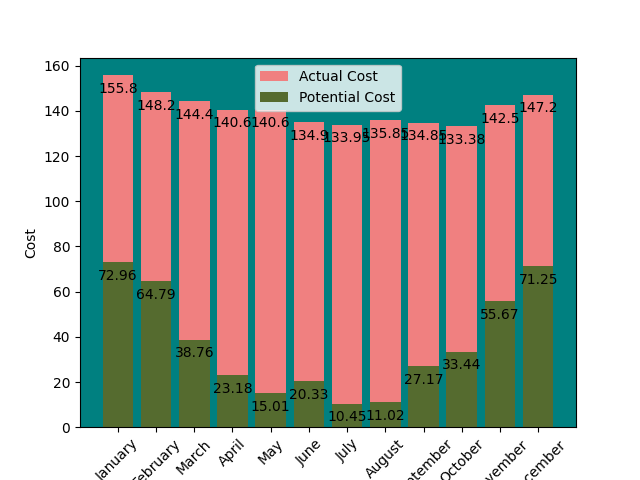
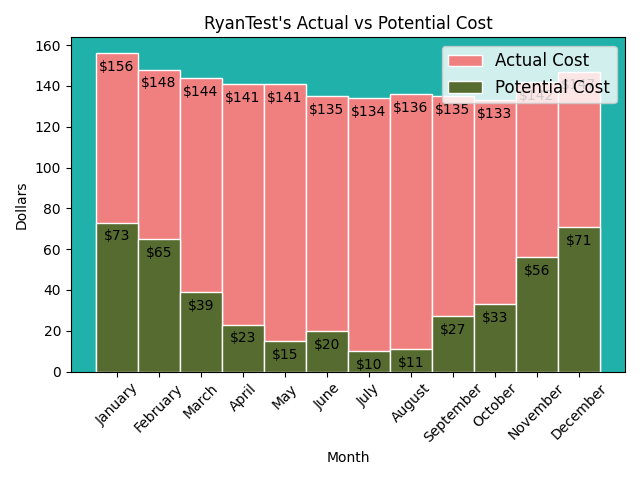
Various Results updates

diff --git a/src/backend/results.py b/src/backend/results.py
@@ -1,26 +1,32 @@
 from backend.utils import MONTHS_MAP, IntListMonthly, FloatListMonthly
 from backend.solar_potential import SolarPotentialData
 from backend.input_handler import InputData
+from csv import writer as csv_writer
 from os import PathLike, getcwd
 from pathlib import PurePath
 from math import ceil
 import matplotlib.pyplot as plt
 from pandas import DataFrame
 from pydantic import BaseModel, PositiveInt, FilePath
-from typing import Callable, Iterable, List
+from typing import Callable, Iterable, List, Literal, TypeVar
+
+PandasDataFrame = TypeVar('pandas.core.frame.DataFrame')
 
 
 class Results(BaseModel):
     # Required
     name: str
     address: str
+    actual_consumption_monthly: IntListMonthly
+    actual_cost_monthly: FloatListMonthly
+    potential_production_monthly: IntListMonthly
     potential_cost_monthly: FloatListMonthly
-    potential_cost_annual: float
     savings_monthly: FloatListMonthly
-    savings_annual: float
     cost_reduction_monthly: IntListMonthly
-    cost_reduction_annual: int
-    graph_path: FilePath
+    energy_graph_path: FilePath
+    cost_graph_path: FilePath
+    results_data_frame: PandasDataFrame
+    results_csv_path: FilePath
     mod_quantity: PositiveInt
     input_data: InputData
     solar_potential_data: SolarPotentialData
@@ -32,128 +38,54 @@ def _average(iterable: Iterable) -> int:
 
 
 def create_comparison_graph(
-        title: str, d1: DataFrame, d2: DataFrame, l1: str, l2: str, y_label: str, out_path: PathLike) -> None:
-    """"""
+        title: str, d1: DataFrame, d2: DataFrame, l1: str, l2: str, y_label: str,
+        out_path: PathLike, graph_type: Literal['energy', 'cost']) -> None:
+    """Creates a graph with 2 overlying plots for comparison."""
+
+    def _plot_bar(d: DataFrame, l: str, color: str) -> None:
+        """Helper function to plot each bar-plot and set the label"""
+        _ax = ax.bar(
+            x=list(MONTHS_MAP.values()),
+            height=d.drop(d.index[-1]),
+            width=1,
+            color=color,
+            label=l,
+            edgecolor='white',
+            capstyle='round'
+        )
+        # Display the numbers on the bar-plots
+        ax.bar_label(
+            container=_ax,
+            padding=-15,
+            fmt='$%g' if graph_type == 'cost' else '%g'
+        )
+
+    # Define color_map for storing colors based on graph type
+    color_map = {  # key: [d1-color, d2-color]
+        'energy': ['indianred', 'gold'],
+        'cost': ['lightcoral', 'darkolivegreen']
+    }
     # Establish subplot figure.axes
     fig, ax = plt.subplots()
-    ax.set_title(title=title, font_size='x-large')
+    ax.set_title(label=title)
     # Plot both datasets you are comparing as bar-plots
-    ax1 = ax.bar(
-        x=list(MONTHS_MAP.values()),
-        height=d1,
-        width=1,
-        color='lightcoral',
-        label=l1,
-        edgecolor='black',
-        capstyle='round'
-    )
-    ax2 = ax.bar(
-        x=list(MONTHS_MAP.values()),
-        height=d2,
-        width=1,
-        color='darkolivegreen',
-        label=l2,
-        edgecolor='black',
-        capstyle='round'
-    )
-    # Display the numbers on the bar-plots
-    ax.bar_label(
-        container=ax1,
-        padding=-15
-    )
-    ax.bar_label(
-        container=ax2,
-        padding=-15
-    )
+    _plot_bar(d=d1, l=l1, color=color_map[graph_type][0])
+    _plot_bar(d=d2, l=l2, color=color_map[graph_type][1])
     # Set x and y labels
     ax.set_xlabel(xlabel='Month')
-    [item.set_rotation(45) for item in ax.get_xticklabels()]
     ax.set_ylabel(ylabel=y_label)
+    # Rotate month (x) labels by 45 degrees
+    [item.set_rotation(45) for item in ax.get_xticklabels()]
     # Set background color
-    ax.set_facecolor('teal')
+    ax.set_facecolor('lightseagreen')
     # Set legend
     legend = ax.legend(fontsize="large")
     # legend.get_frame().set_color("xkcd:salmon")
+
     # Tighten layout
     plt.tight_layout()
     # Save the figure
     plt.savefig(fname=out_path)
-
-
-def create_solar_graph(input_data: InputData, solar_potential_data: SolarPotentialData,
-                       out_relative_path: PathLike[str]) -> None:
-    """Generate the Results graph."""
-    potential = solar_potential_data.solar_potential_monthly
-    consumption = input_data.consumption_monthly
-    abv_months = list(map((lambda month: month[:3]), MONTHS_MAP.values()))
-
-    fig, ax = plt.subplots()
-    ax.set_title(f"{input_data.name}'s Consumption vs Production", fontsize="x-large")
-    consumption_bar_plot = ax.bar(
-        x=abv_months,
-        height=consumption,
-        width=1,
-        color="orange",
-        label="Consumption",
-        edgecolor="black",
-        capstyle='round'
-    )
-    ax.plot(
-        abv_months, potential, "bo",
-        label="Solar Potential",
-        linestyle="--",
-        linewidth=2,
-        markersize=8
-    )
-    ax.bar_label(
-        container=consumption_bar_plot,
-        padding=-15
-    )
-    ax.set_ylabel(solar_potential_data.units_solar_potential)
-    ax.set_xlabel('Month')
-    ax.set_facecolor('C0')
-
-    legend = ax.legend(fontsize="large")
-    legend.get_frame().set_color("xkcd:salmon")
-    plt.tight_layout()
-
-    plt.savefig(fname=out_relative_path)
-
-
-def create_cost_comparison_graph(data_df,
-                                 out_relative_path):
-    """"""
-    fig, ax = plt.subplots()
-    ax_actual = ax.bar(
-        x=list(MONTHS_MAP.values()),
-        height=data_df['Cost $'],
-        color='lightcoral',
-        label='Actual Cost'
-    )
-    ax_potential = ax.bar(
-        x=list(MONTHS_MAP.values()),
-        height=list(data_df['Potential Cost $'].values),
-        color='darkolivegreen',
-        label='Potential Cost'
-    )
-    ax.bar_label(
-        container=ax_actual,
-        padding=-15
-    )
-    ax.bar_label(
-        container=ax_potential,
-        padding=-15
-    )
-    ax.set_xlabel('Month')
-    for item in ax.get_xticklabels():
-        item.set_rotation(45)
-
-    ax.set_ylabel('Cost')
-
-    ax.set_facecolor('teal')
-    ax.legend()
-    fig = ax.get_figure()
-    fig.savefig(out_relative_path)
 
 
 def get_data_df(
@@ -171,17 +103,22 @@ def get_data_df(
     )
 
 
-def create_out_csv(header: dict, data_df: DataFrame, out_relative_path: PathLike[str]) -> None:
+def create_out_csv(header: dict, data_df: DataFrame, footer: dict,
+                   out_relative_path: PathLike[str]) -> None:
     """Creates the output csv at the relative path passed."""
-    from csv import DictWriter
+    def _write_dict(to_write: dict) -> None:
+        """Helper to iterate through a dict and write its items to csv."""
+        for key, val in to_write.items():
+            writer.writerow([key, val])
 
     with open(out_relative_path, 'w') as out_file:
-        writer = DictWriter(out_file, fieldnames=['Name', header['Name']])
+        writer = csv_writer(out_file, delimiter=',')
 
-        for key, val in header.items():
-            writer.writerow({'Name': key, header['Name']: val})
+        _write_dict(to_write=header)
 
-        data_df.to_csv(out_file, mode='a')
+        data_df.to_csv(out_file, mode='a', index=False)
+
+        _write_dict(to_write=footer)
 
 
 def get_results(input_data: InputData, solar_potential_data: SolarPotentialData) -> Results:
@@ -195,82 +132,82 @@ def get_results(input_data: InputData, solar_potential_data: SolarPotentialData)
 
         return out
 
-    path_solar_graph = PurePath(fr"./OutputGraphs/{input_data.name}-SolarGraph.png")
+    # Define out paths
+    path_energy_graph = PurePath(fr"./OutputGraphs/{input_data.name}-EnergyGraph.png")
     path_cost_graph = PurePath(fr"./OutputGraphs/{input_data.name}-CostGraph.png")
     path_out_csv = PurePath(fr"./OutputDataFiles/{input_data.name}-OutputData.csv")
 
-    """create_solar_graph(
-        input_data=input_data,
-        solar_potential_data=solar_potential_data,
-        out_relative_path=path_solar_graph
-    )"""
-
+    # Calculate Potential Cost, Savings, and Cost Reduction
     potential_cost_monthly = _helper_calculate(
         func=lambda a1, a2, a3: round((a1 - a2) * a3, 2),
         zipped=zip(input_data.consumption_monthly, solar_potential_data.solar_potential_monthly),
         arg3=input_data.cost_per_kwh
     )
-
     savings_monthly = _helper_calculate(
         func=lambda a1, a2, a3: round((a1 - a2), 2),
         zipped=zip(input_data.cost_monthly, potential_cost_monthly)
     )
     cost_reduction_monthly = _helper_calculate(
-        func=lambda a1, a2, a3: round((a1 / a2), 2),
-        zipped=zip(potential_cost_monthly, input_data.consumption_monthly)
+        func=lambda a1, a2, a3: round(((a1 / a2) * 100), 2),
+        zipped=zip(savings_monthly, input_data.cost_monthly)
     )
-    data_df = get_data_df(
+    # Create Data Frame with all data for graphing/writing outputs
+    results_df = get_data_df(
         input_data=input_data,
         solar_potential_monthly=solar_potential_data.solar_potential_monthly,
         potential_cost_monthly=potential_cost_monthly,
         savings_monthly=savings_monthly,
         cost_reduction_monthly=cost_reduction_monthly,
     )
-    """create_cost_comparison_graph(
-        data_df=data_df.drop(data_df.index[-1]),
-        out_relative_path=path_cost_graph
-    )"""
-    create_comparison_graph(
-        title=f"{input_data.name}'s Actual Cost vs Potential Cost",
-        d1=data_df['Cost $'],
-        d2=data_df['Potential Cost $'],
+    """create_comparison_graph(
+        title=f"{input_data.name}'s Actual vs Potential Cost",
+        d1=results_df['Cost $'].round(),
+        d2=results_df['Potential Cost $'].round(),
         l1='Actual Cost',
         l2='Potential Cost',
         y_label='Dollars',
-        out_path=path_cost_graph
+        out_path=path_cost_graph,
+        graph_type='cost'
     )
     create_comparison_graph(
-        title=f"{input_data.name}'s Consumption vs Production",
-        d1=data_df['Consumption kWh'],
-        d2=data_df['Potential kWh'],
+        title=f"{input_data.name}'s Energy Consumption vs Production",
+        d1=results_df['Consumption kWh'],
+        d2=results_df['Potential kWh'],
         l1='Energy Consumption',
         l2='Potential Energy Production',
         y_label=solar_potential_data.units_solar_potential,
-        out_path=path_solar_graph
-    )
-    """create_out_csv(
+        out_path=path_energy_graph,
+        graph_type='energy'
+    )"""
+    create_out_csv(
         header={'Name': input_data.name,
                 'Address': input_data.address,
                 'Cost/kWh': input_data.cost_per_kwh,
                 '': ''},  # Blank Row
-        data_df=data_df,
-        out_relative_path=relative_csv_path
-    )"""
+        data_df=results_df,
+        footer={'': '',   # Blank Row
+                'Note:': solar_potential_data.note,
+                'Potential kWh Source:': solar_potential_data.source},
+        out_relative_path=path_out_csv
+    )
 
-    """return Results(
+    return Results(
         name=input_data.name,
         address=input_data.address,
+        actual_consumption_monthly=input_data.consumption_monthly,
+        actual_cost_monthly=input_data.cost_monthly,
+        potential_production_monthly=solar_potential_data.solar_potential_monthly,
         potential_cost_monthly=potential_cost_monthly,
-        potential_cost_annual=sum(potential_cost_monthly),
         savings_monthly=savings_monthly,
-        savings_annual=sum(savings_monthly),
         cost_reduction_monthly=cost_reduction_monthly,
-        cost_reduction_annual=_average(cost_reduction_monthly),
-        graph_path=graph_path,
+        energy_graph_path=path_energy_graph,
+        cost_graph_path=path_cost_graph,
+        results_data_frame=results_df,
+        results_csv_path=path_out_csv,
         mod_quantity=ceil(solar_potential_data.needed_kwh / input_data.mod_kwh),
         input_data=input_data,
         solar_potential_data=solar_potential_data
-    )"""
+    )
 
 
 if __name__ == '__main__':

diff --git a/src/samples/sample_data_objects.py b/src/samples/sample_data_objects.py
@@ -24,7 +24,7 @@ SAMPLE_SOLAR_POTENTIAL_DATA = SolarPotentialData(
     needed_kwh=4
 )
 
-SAMPLE_RESULTS = Results(
+"""SAMPLE_RESULTS = Results(
     name=SAMPLE_INPUT_DATA.name,
     address=SAMPLE_INPUT_DATA.address,
     potential_cost_monthly=[72.96, 64.79, 38.76, 23.18, 15.01, 20.33, 10.45, 12.92, 27.17, 33.44, 55.67, 71.25],
@@ -37,7 +37,7 @@ SAMPLE_RESULTS = Results(
     mod_quantity=15,
     input_data=SAMPLE_INPUT_DATA,
     solar_potential_data=SAMPLE_SOLAR_POTENTIAL_DATA
-)
+)"""
 
 SAMPLE_SHEET = '1gneTmzTrGTsJIrjkjzEOYS-Bq7irB_WZ2TJWXMlFp4k'
 SAMPLE_CSV = r'./samples/sample_consumption.csv'

diff --git a/src/backend/solar_potential.py b/src/backend/solar_potential.py
@@ -17,7 +17,8 @@ class SolarPotentialData(BaseModel):
     solar_potential_annual: PositiveInt
     needed_kwh: PositiveInt
     # Default
-    note = "Solar potential reported over a 30 year average."
+    note = "Solar potential (kWh) reported over a 30 year average."
+    source = "pvwatts.nrel.gov/pvwatts.php"
     units_solar_potential = "kiloWattHours"
     sym_solar_potential = "kWh"
 
